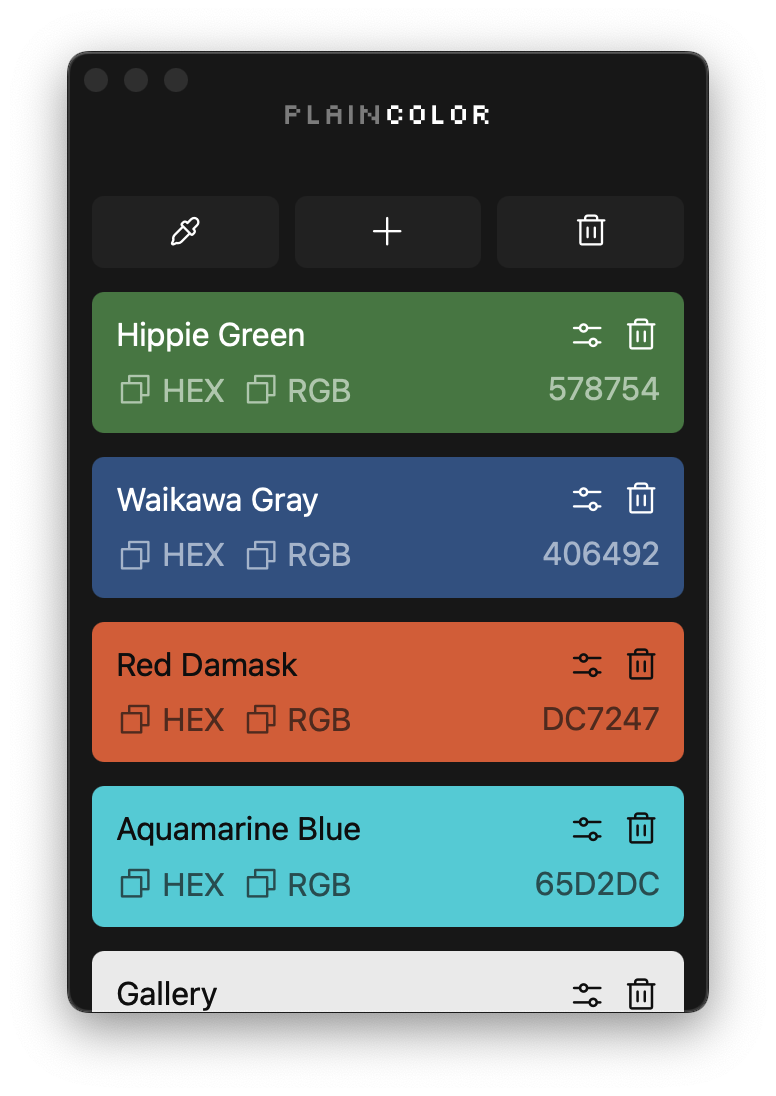
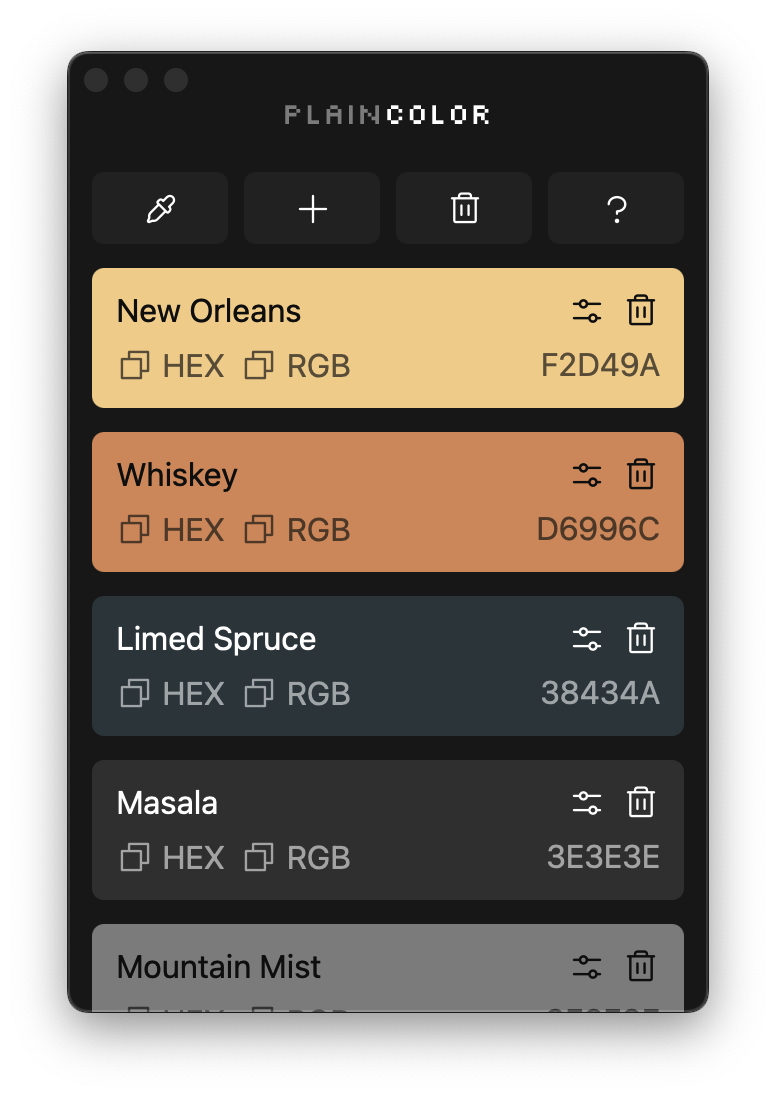
v1.0.1

diff --git a/src/pages/AboutPage/index.tsx b/src/pages/AboutPage/index.tsx
@@ -1,26 +1,66 @@
-import { FC } from 'react'
+import { FC, useState, useEffect } from 'react'
 import { Stack } from '@/components/Stack'
 import { Header } from '@/components/Header'
-import { CaretLeft } from '@phosphor-icons/react'
+import { GithubLogo, CoinVertical, Globe, AppStoreLogo, CaretLeft } from '@phosphor-icons/react'
 import { useNavigate } from 'react-router-dom'
 import { Button } from '@/components/Button'
-import { AppIcon } from '@/components/AppIcon'
+import { Text } from '@/components/Text'
+import { app } from '@tauri-apps/api'
+import { Image } from '@/components/Image'
 
 export const AboutPage: FC = () => {
   const navigate = useNavigate()
+  const [version, setVersion] = useState('0')
+  const projectUrl = 'https://moduleart.github.io/plain-color'
+  const githubUrl = 'https://github.com/ModuleArt/plain-color'
+  const moreAppsUrl = 'https://moduleart.github.io/'
+  const donateUrl = 'https://opencollective.com/moduleart'
+
+  useEffect(() => {
+    app.getVersion().then((v) => setVersion(v))
+  }, [])
 
   const goHome = () => {
     navigate('/')
   }
 
+  const openUrl = (url: string) => {
+    open(url)
+  }
+
   return (
     <Stack dir="vertical" gap="none" grow>
       <Header leftElement={<Button icon={CaretLeft} variant="clear" onClick={goHome} />} />
-      <AppIcon
-        projectUrl="https://moduleart.github.io/plain-color"
-        githubUrl="https://github.com/ModuleArt/plain-color"
-        grow
-      />
+      <Stack dir="vertical" gap="large" grow>
+        <Stack justify="center" align="center" grow>
+          <Image src="/assets/imgs/icon.svg" width={120} />
+        </Stack>
+        <Stack dir="vertical" padding="medium">
+          <Stack justify="between">
+            <Text text="Version" tinted />
+            <Text text={version} />
+          </Stack>
+          <Stack justify="between">
+            <Text text="Author" tinted />
+            <Text text="Eugene Volynko" />
+          </Stack>
+          <Stack justify="between">
+            <Text text="Publisher" tinted />
+            <Text text="ModuleArt" />
+          </Stack>
+        </Stack>
+
+        <Stack dir="vertical" padding="medium">
+          <Stack>
+            <Button icon={Globe} label="Website" onClick={() => openUrl(projectUrl)} grow />
+            <Button icon={CoinVertical} label="Donate" onClick={() => openUrl(donateUrl)} grow />
+          </Stack>
+          <Stack>
+            <Button icon={GithubLogo} label="GitHub" onClick={() => openUrl(githubUrl)} grow />
+            <Button icon={AppStoreLogo} label="More Apps" onClick={() => openUrl(moreAppsUrl)} grow />
+          </Stack>
+        </Stack>
+      </Stack>
     </Stack>
   )
 }

diff --git a/src/layouts/PickerLayout/index.tsx b/src/layouts/PickerLayout/index.tsx
@@ -5,6 +5,7 @@ import { isDark, rgbToHex } from '@/utils/color.util'
 import { Text } from '@/components/Text'
 import cn from 'classnames'
 import { Stack } from '@/components/Stack'
+import { Image } from '@/components/Image'
 
 export const PickerLayout: FC = () => {
   const [image, setImage] = useState('')
@@ -46,9 +47,14 @@ export const PickerLayout: FC = () => {
   }
 
   return (
-    <div className="picker-layout">
-      <img src={image} className="picker-layout__image" onClick={pickColor} />
-      <Stack className="picker-layout__color" style={{ background: `#${color}` }} justify="center">
+    <div className="picker-layout" onClick={pickColor}>
+      <Image src={image} className="picker-layout__image" pointerEvents="disable" />
+      <Stack
+        className="picker-layout__color"
+        style={{ background: `#${color}` }}
+        justify="center"
+        pointerEvents="disable"
+      >
         <Text
           text={color}
           tinted

diff --git a/src/layouts/PickerLayout/index.scss b/src/layouts/PickerLayout/index.scss
@@ -1,18 +1,21 @@
 .picker-layout {
   $pixel: calc(100% / 11);
 
+  position: fixed;
+  left: 0;
+  top: 0;
+  width: calc(100% + $pixel);
+  height: calc(100% + $pixel);
+  cursor: none;
+
   &__image {
-    position: fixed;
-    left: 0;
-    top: 0;
-    width: calc(100% + $pixel);
-    height: calc(100% + $pixel);
+    width: 100%;
+    height: 100%;
     object-fit: cover;
     image-rendering: pixelated;
   }
 
   &__color {
-    pointer-events: none;
     position: fixed;
     bottom: 0.5rem;
     border-radius: 0.375rem;

diff --git a/src/components/Image/index.tsx b/src/components/Image/index.tsx
@@ -1,0 +1,16 @@
+import { FC } from 'react'
+import { IImageProps } from './props'
+import cn from 'classnames'
+import { commonComponentClasses } from '@/lib'
+
+export const Image: FC<IImageProps> = ({ src, width, height, ...props }) => {
+  return (
+    <img
+      draggable={false}
+      src={src}
+      width={width}
+      height={height}
+      className={cn(props, commonComponentClasses(props))}
+    />
+  )
+}

diff --git a/src/components/Header/index.tsx b/src/components/Header/index.tsx
@@ -7,7 +7,7 @@ import './index.scss'
 
 export const Header: FC<PropsWithChildren<IHeaderProps>> = ({ children, leftElement, rightElement, ...props }) => {
   return (
-    <Stack className={cn('header', commonComponentClasses(props))}>
+    <Stack className={cn('header', commonComponentClasses(props))} align="center">
       <Stack grow justify="start">
         {leftElement}
       </Stack>

diff --git a/src/components/Icon/index.tsx b/src/components/Icon/index.tsx
@@ -1,6 +1,6 @@
 import { FC } from 'react'
 import { IIconProps } from './props'
 
-export const Icon: FC<IIconProps> = (props) => {
-  return <props.icon width="1.2rem" height="1.2rem" />
+export const Icon: FC<IIconProps> = ({ width = 19, height = 19, ...props }) => {
+  return <props.icon width={width} height={height} />
 }

diff --git a/src/components/Logo/index.tsx b/src/components/Logo/index.tsx
@@ -1,6 +1,7 @@
 import { FC } from 'react'
 import './index.scss'
+import { Image } from '@/components/Image'
 
 export const Logo: FC = () => {
-  return <img className="logo" src="/assets/imgs/logo.svg" />
+  return <Image className="logo" src="/assets/imgs/logo.svg" />
 }

diff --git a/src/components/Icon/props.ts b/src/components/Icon/props.ts
@@ -1,5 +1,8 @@
+import { IPlainlibComponentProps } from '@/lib/types'
 import { Icon } from '@phosphor-icons/react'
 
-export interface IIconProps {
+export interface IIconProps extends IPlainlibComponentProps {
   icon: Icon
+  width?: number
+  height?: number
 }

diff --git a/src/components/Image/props.ts b/src/components/Image/props.ts
@@ -1,0 +1,7 @@
+import { IPlainlibComponentProps } from '@/lib/types'
+
+export interface IImageProps extends IPlainlibComponentProps {
+  src: string
+  width?: number
+  height?: number
+}

diff --git a/src/components/WindowTitlebar/index.scss b/src/components/WindowTitlebar/index.scss
@@ -1,5 +1,4 @@
 .window-titlebar {
-  user-select: none;
   display: flex;
   align-items: center;
 

diff --git a/src/components/Header/index.scss b/src/components/Header/index.scss
@@ -1,3 +1,3 @@
 .header {
-  padding: 0.75rem;
+  padding: 0.75rem 0.75rem 0;
 }

diff --git a/src-tauri/src/lib.rs b/src-tauri/src/lib.rs
@@ -4,7 +4,7 @@ use mouse_position::mouse_position::Mouse;
 use screenshots::Screen;
 use std::io::Cursor;
 use tauri::{
-    // menu::{Menu, MenuItem},
+    menu::{Menu, PredefinedMenuItem, Submenu},
     // tray::TrayIconBuilder,
     AppHandle,
     Emitter,
@@ -93,6 +93,25 @@ fn fetch_preview(app: AppHandle, size: u32) {
 #[cfg_attr(mobile, tauri::mobile_entry_point)]
 pub fn run() {
     tauri::Builder::default()
+        .menu(|handle| {
+            Menu::with_items(
+                handle,
+                &[
+                    &Submenu::with_items(
+                        handle,
+                        "File",
+                        true,
+                        &[&PredefinedMenuItem::quit(handle, None)?],
+                    )?,
+                    &Submenu::with_items(
+                        handle,
+                        "Window",
+                        true,
+                        &[&PredefinedMenuItem::minimize(handle, None)?],
+                    )?,
+                ],
+            )
+        })
         .plugin(tauri_plugin_process::init())
         .plugin(tauri_plugin_os::init())
         .plugin(tauri_plugin_clipboard_manager::init())
